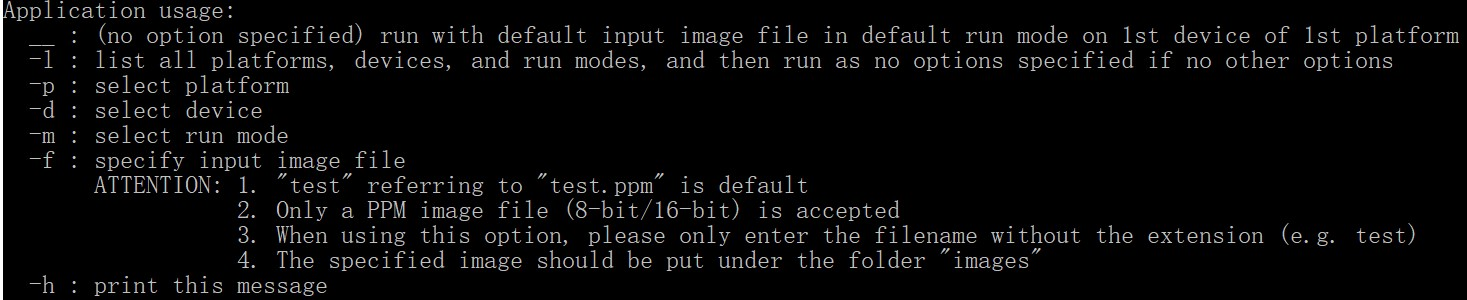
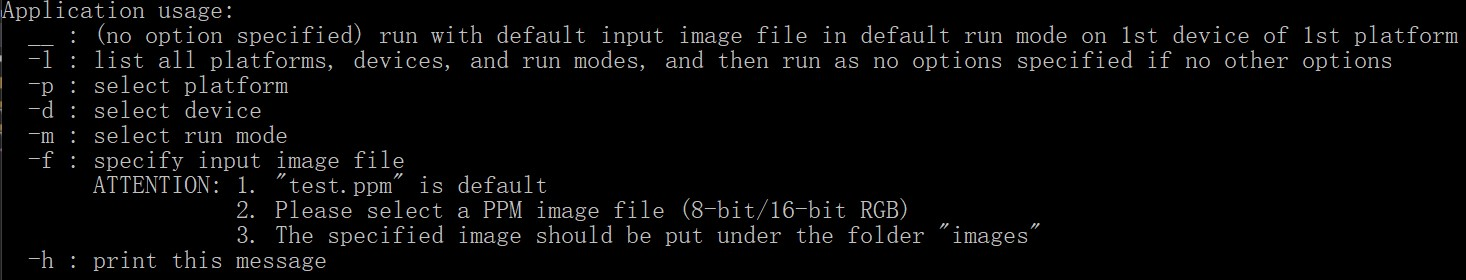
Improve console output and description.

Changed region(s): [[0.0, 0.0, 1.0, 1.0]]

diff --git a/Assessment 1/Assessment 1.cpp b/Assessment 1/Assessment 1.cpp
@@ -1,10 +1,10 @@
 /*
  * @Description: host code file of the tool applying histogram equalisation on a specified RGB image (8-bit/16-bit)
- * @Version: 1.7.2.20200318
+ * @Version: 1.7.3.20200321
  * @Author: Arvin Zhao
  * @Date: 2020-03-08 15:29:21
  * @Last Editors: Arvin Zhao
- * @LastEditTime: 2020-03-18 13:33:15
+ * @LastEditTime: 2020-03-21 13:33:15
  */
 
 #include <iostream>
@@ -21,7 +21,7 @@ int main(int argc, char **argv)
 	int platform_id = 0;
 	int device_id = 0;
 	int mode_id = 0;
-	string image_filename = "test";
+	string image_filename = "test.ppm";
 
 	for (int i = 1; i < argc; i++)
 	{
@@ -57,10 +57,9 @@ int main(int argc, char **argv)
 			std::cerr << "  -d : select device" << std::endl;
 			std::cerr << "  -m : select run mode" << std::endl;
 			std::cerr << "  -f : specify input image file" << std::endl;
-			std::cerr << "       ATTENTION: 1. \"test\" referring to \"test.ppm\" is default" << std::endl;
-			std::cerr << "                  2. Only a PPM image file (8-bit/16-bit) is accepted" << std::endl;
-			std::cerr << "                  3. When using this option, please only enter the filename without the extension (e.g. test)" << std::endl;
-			std::cerr << "                  4. The specified image should be put under the folder \"images\"" << std::endl;
+			std::cerr << "       ATTENTION: 1. \"test.ppm\" is default" << std::endl;
+			std::cerr << "                  2. Please select a PPM image file (8-bit/16-bit RGB)" << std::endl;
+			std::cerr << "                  3. The specified image should be put under the folder \"images\"" << std::endl;
 			std::cerr << "  -h : print this message" << std::endl;
 			return 0;
 		} // end nested if...else
@@ -72,7 +71,7 @@ int main(int argc, char **argv)
 		return 0;
 	} // end if
 
-	string image_path = "images\\" + image_filename + ".ppm";
+	string image_path = "images\\" + image_filename;
 
 	cimg::exception_mode(0);
 

diff --git a/Assessment 1/README.md b/Assessment 1/README.md
@@ -1,6 +1,6 @@
 # [UoL_Y3S2_PP](https://github.com/ArvinZJC/UoL_Y3S2_PP)/Assessment 1
 
-The project is named as **Assessment 1** which contains a simple digital image enhancement tool as Assessment 1 of the course **Parallel Programming** during Semester 2 of Year 3 of BSc (Hons) Computer Science in UoL. It can basically apply image histogram equalisation on an RGB image (8-bit/16-bit). Info of test images is detailed in Table 1.
+The project is named as **Assessment 1** which contains a simple digital image enhancement tool as Assessment 1 of the course **Parallel Programming** during Semester 2 of Year 3 of BSc (Hons) Computer Science in UoL. It can basically apply image histogram equalisation on a PPM image (8-bit/16-bit RGB). Info of test images is detailed in Table 1.
 
 | Name | Bit depth | Width (px) | Height (px) | Spectrum |
 | :-- | --: | --: | --: | --: |
@@ -21,5 +21,6 @@ The following steps show a basic and suggested way to run an application.
 
 1. Build/Rebuild the solution.
 2. Using the command prompt, navigate to the directory containing your built project (e.g. `cd C:\SD\C++\UoL_Y3S2_PP\x64\Debug\Assessment 1`) and run the EXE file (e.g. `"Assessment 1.exe"` - ".exe" can be omitted).
-3. Figure 1 shows application usage using command line options.
+3. Figure 1 shows application usage using command line options and Figure 2 presents the available run modes.
 ![application_usage.jpg](application_usage.jpg "Application usage using command line options.")Figure 1
+![run_modes.jpg](run_modes.jpg "Available run modes.")Figure 2
